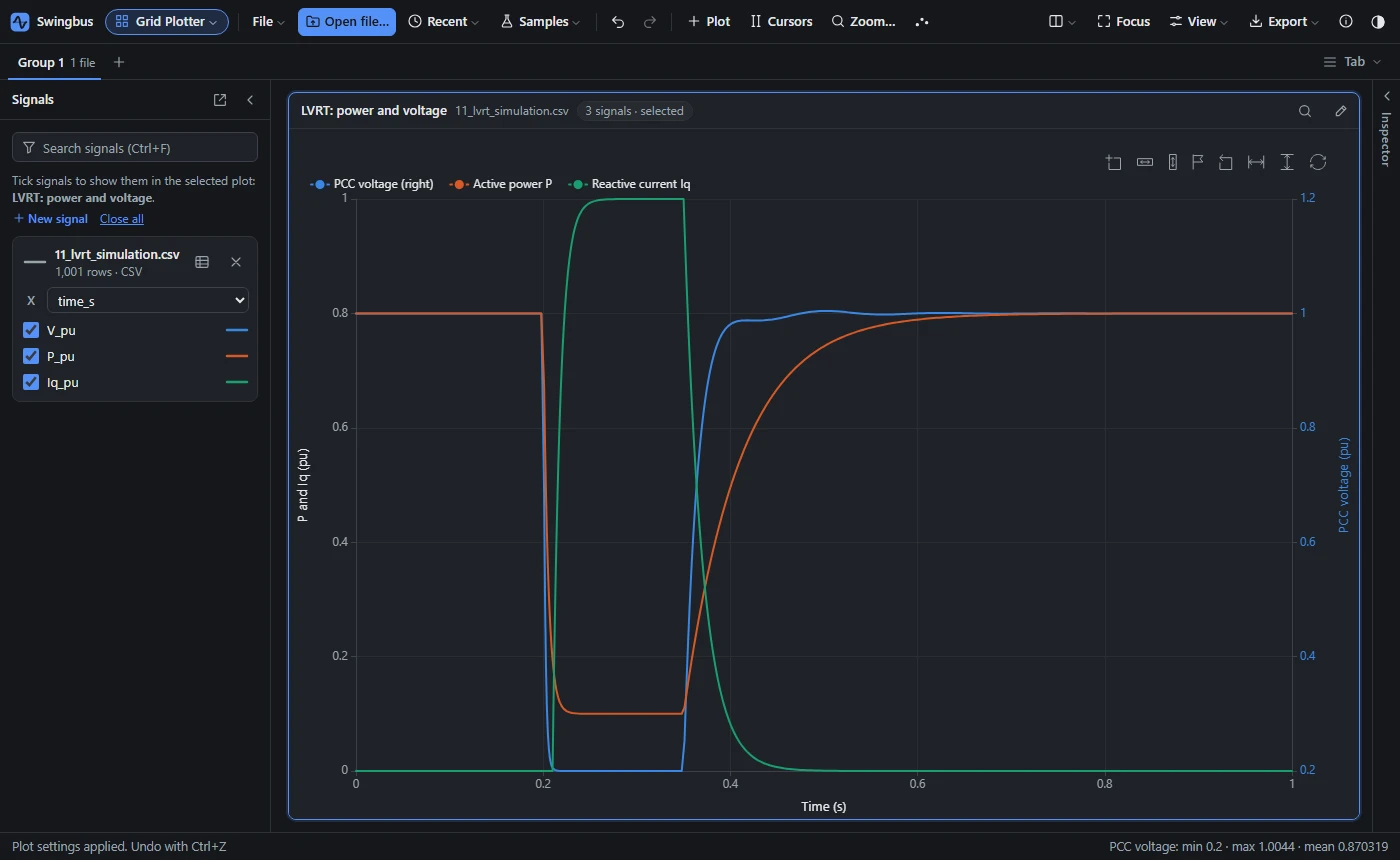
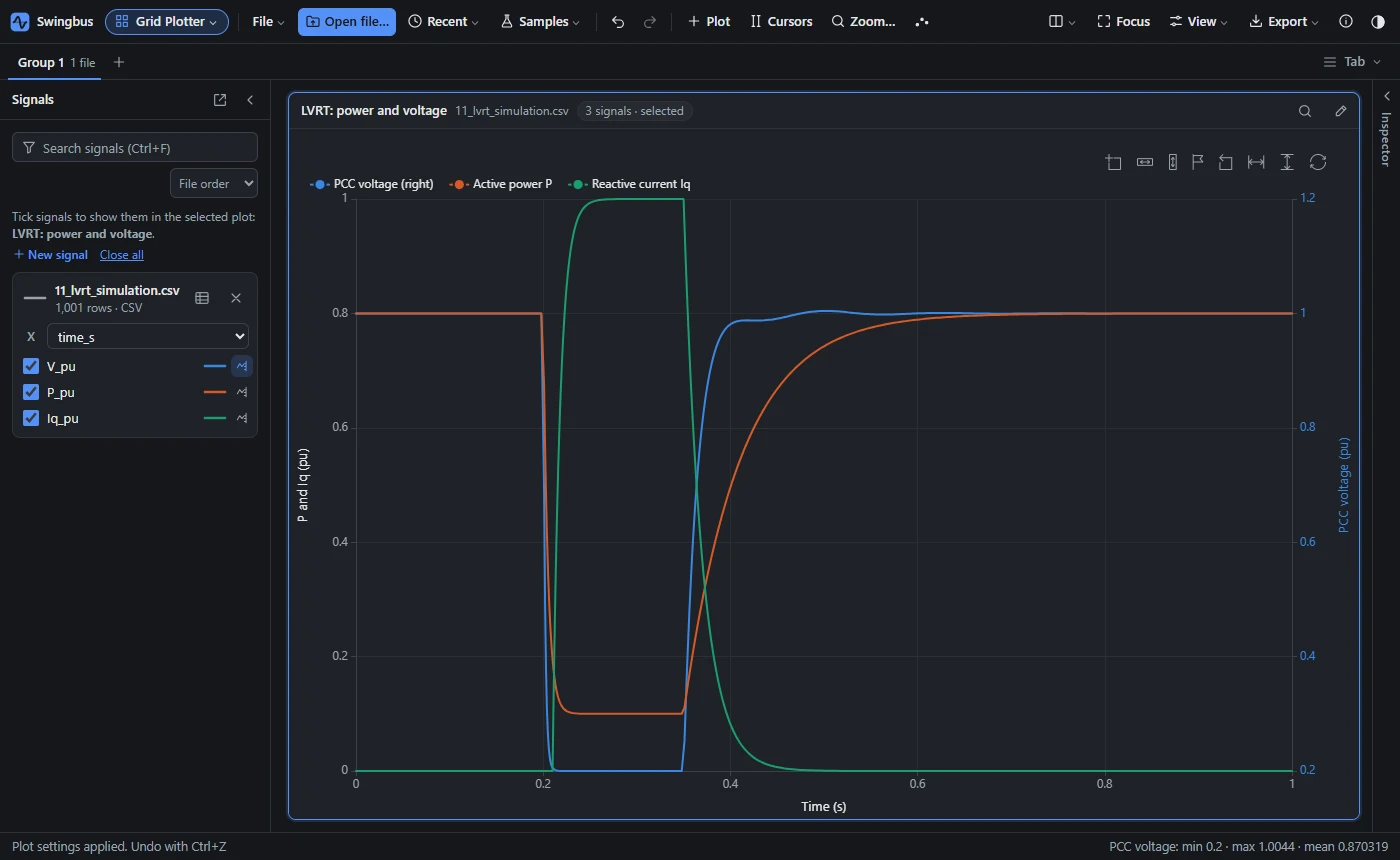
The PSCAD states tab, the Two Y axes tab refreshed, the Plotter card's first point: 0.14.0's three features on the site (docs/23 section 17)

Changed region(s): [[0.0, 0.1814, 0.1843, 0.514], [0.1536, 0.3628, 0.1843, 0.4535], [0.1536, 0.4837, 0.1843, 0.514]]

diff --git a/components/FeatureTour.tsx b/components/FeatureTour.tsx
@@ -18,7 +18,7 @@ const SCREENS: { key: string; tab: string; title: string; text: string; shot: Sh
     key: "axes",
     tab: "Two Y axes",
     title: "Power on the left, voltage on the right",
-    text: "In Plot settings each signal picks Left or Right. The first signal moved right gives the plot a second Y axis with its own name, unit, ticks and zoom: Ctrl + wheel over its labels, Fit and Reset per axis, and the crosshair reads both.",
+    text: "In Plot settings each signal picks Left or Right. The first signal moved right gives the plot a second Y axis with its own name, unit, ticks and zoom: Ctrl + wheel over its labels, Fit and Reset per axis, and the crosshair reads both. The axis button after a ticked signal in the Signals pane does the same with one press.",
     shot: { name: "app-second-axis", width: 1400, height: 860, alt: "An LVRT simulation on one plot: the active power and the reactive current in pu on the left Y axis, and the PCC voltage in pu on a right Y axis of its own, drawn in the voltage's blue" },
   },
   {
@@ -69,6 +69,13 @@ const SCREENS: { key: string; tab: string; title: string; text: string; shot: Sh
     title: "Straight from the simulator's output",
     text: "A PSCAD HVDC case opened from its output files: AC voltages, DC volts and DC currents of the rectifier and the inverter.",
     shot: { name: "app-pscad", width: 1400, height: 860, alt: "A PSCAD HVDC case opened from its output files: AC voltages, DC volts and DC currents of the rectifier and the inverter" },
+  },
+  {
+    key: "states",
+    tab: "PSCAD states",
+    title: "The fault's own state, next to what it did",
+    text: "A .psout holds more than its output channels: the values behind the symbols on the canvas, meter readouts and the state of every breaker and fault, written only when they change. Swingbus holds each onto the time axis, so a fault or a breaker draws as a step beside the voltage it switched, and the Signals pane says how many values it was made from.",
+    shot: { name: "app-psout-states", width: 1400, height: 860, alt: "A made-up PSCAD LVRT case: the PCC voltage and the active power in pu on the left Y axis, and the fault symbol's state FLT_PCC: AG1, held from its three values, drawn as a step on a right Y axis; the Signals pane lists it with 3 values and its axis button pressed" },
   },
   {
     key: "live",

diff --git a/components/Overview.tsx b/components/Overview.tsx
@@ -8,7 +8,7 @@ const TOOLS = [
     tag: "Grid Plotter",
     title: "Compare the simulation with the field",
     points: [
-      "Overlay PSCAD, PSS®E, COMTRADE, MATLAB and CSV runs on the same axes, or on a second Y axis when the units differ",
+      "Overlay PSCAD, PSS®E, COMTRADE, MATLAB and CSV runs on the same axes, or on a second Y axis at the press of a button",
       "Zoom with the wheel, a drag or a box; a crosshair, two cursors and named markers read every signal",
       "Rise, peak and settling time, overshoot and damping ratio of a step, placed on the plot as markers",
       "Harmonics and THD of one signal, Bode and Nyquist plots from two",

diff --git a/README.md b/README.md
@@ -14,7 +14,7 @@ On the page, besides the overview and the pictures:
 
 - **A working Plotter**: one made-up LVRT test, simulation over measurement, with cursors A and B to drag (or move with the arrow keys), a zoom to the fault, and the error between the traces
 - **A working Calculator**: SCR, X/R and the dip you want, giving the fault level, Zs and Zf, with the voltage drawn along the circuit
-- **Inside the app**: eleven screens of the app in tabs, each one full size on a click
+- **Inside the app**: twelve screens of the app in tabs, each one full size on a click
 - A light/dark switch (it follows the system until you choose), and the feedback form
 
 ```sh
@@ -34,7 +34,7 @@ npm run build      # what Vercel runs
 | `app/api/feedback/route.ts` | takes the feedback form and hands it to the Google script |
 | `google-apps-script/Code.gs` | the Google Apps Script: saves each message as a row in a Sheet |
 | `lib/feedback.ts` | the form's types and parts of the app, as the Sheet shows them |
-| `public/img`, `public/video` | the pictures (light and dark, eleven screens) and the demo videos, both made with `docshots.js` and `demo-video.js` of the app's repository |
+| `public/img`, `public/video` | the pictures (light and dark, twelve screens) and the demo videos, both made with `docshots.js` and `demo-video.js` of the app's repository |
 | `public/icon.svg`, `icon.png`, `apple-touch-icon.png` | the app's own mark (`desktop/build/icon.svg` of the app's repository), copied as it is; `Mark` in `components/icons.tsx` is the same drawing |
 
 ## The feedback form
